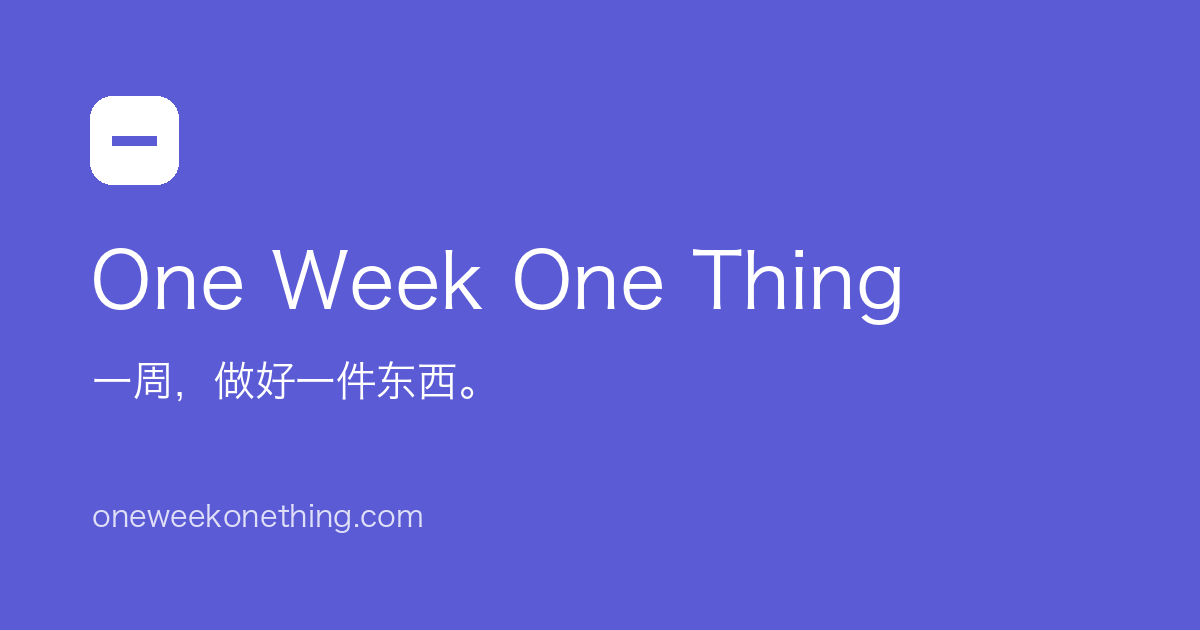
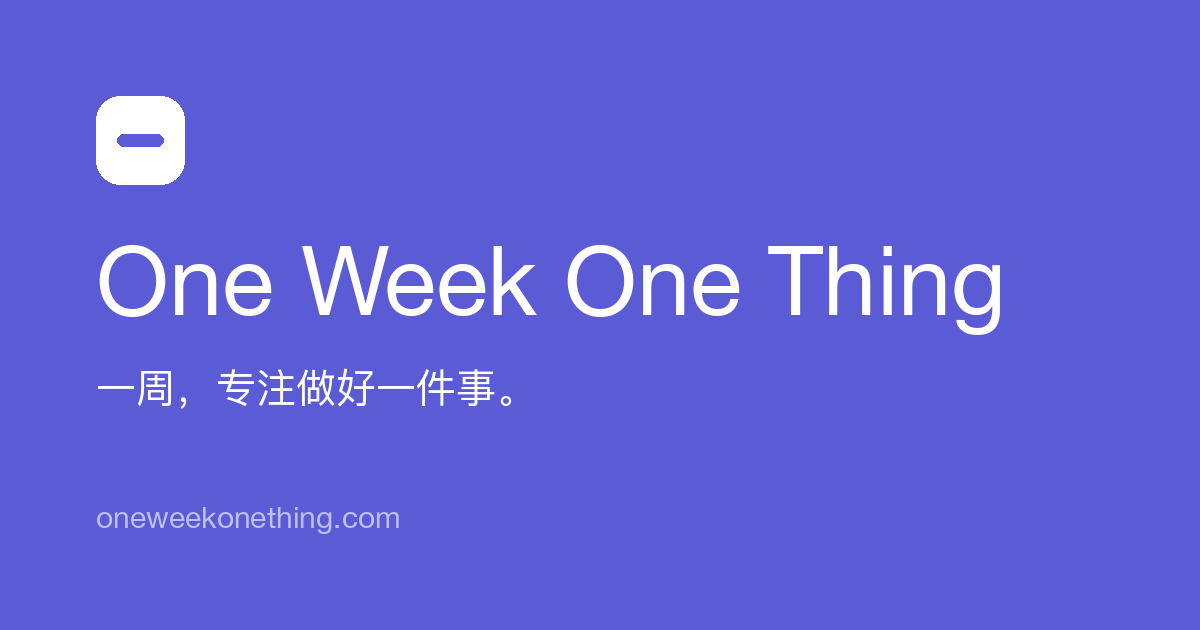
Refine One Week One Thing brand page

diff --git a/index.html b/index.html
@@ -4,8 +4,8 @@
   <meta charset="UTF-8" />
   <meta name="viewport" content="width=device-width, initial-scale=1.0" />
 
-  <title>One Week One Thing 一周一物｜每周做一件小而完整的东西</title>
-  <meta name="description" content="One Week One Thing（一周一物）是一个每周发布一件小而完整作品的个人创作实践。现有作品：网页盲打练习应用「键盘旋律 Key Melody」与 AI 原生开发技术笔记。公开构建，每周更新。" />
+  <title>One Week One Thing 一周一事｜短周期专注，及时反馈与调整</title>
+  <meta name="description" content="One Week One Thing（一周一事）是一种短周期的专注实践：「一周」代表短周期，「一事」代表一个目标或目标中的一个方面；在行动中及时获取反馈、调整方向。" />
   <link rel="canonical" href="https://oneweekonething.com/" />
   <meta name="robots" content="index, follow, max-image-preview:large" />
 
@@ -17,18 +17,18 @@
   <link rel="llms" type="text/markdown" href="/llms.txt" />
 
   <meta property="og:type" content="website" />
-  <meta property="og:site_name" content="One Week One Thing 一周一物" />
-  <meta property="og:title" content="One Week One Thing 一周一物｜每周做一件小而完整的东西" />
-  <meta property="og:description" content="每周发布一件小而完整作品的个人创作实践：网页应用「键盘旋律 Key Melody」、AI 原生开发技术笔记，以及更多每周更新的小东西。" />
+  <meta property="og:site_name" content="One Week One Thing 一周一事" />
+  <meta property="og:title" content="One Week One Thing 一周一事｜短周期专注，及时反馈与调整" />
+  <meta property="og:description" content="「一周」代表短周期，「一事」代表一个目标或目标中的一个方面；在行动中及时获取反馈、调整方向。作品与笔记记录每轮实践的成果。" />
   <meta property="og:url" content="https://oneweekonething.com/" />
   <meta property="og:image" content="https://oneweekonething.com/og-image.png" />
   <meta property="og:image:width" content="1200" />
   <meta property="og:image:height" content="630" />
-  <meta property="og:image:alt" content="One Week One Thing 一周一物 · 每周做一件小而完整的东西" />
+  <meta property="og:image:alt" content="One Week One Thing 一周一事 · 用一周，专注做好一件事" />
   <meta property="og:locale" content="zh_CN" />
   <meta name="twitter:card" content="summary_large_image" />
-  <meta name="twitter:title" content="One Week One Thing 一周一物｜每周做一件小而完整的东西" />
-  <meta name="twitter:description" content="每周发布一件小而完整作品的个人创作实践：键盘旋律 Key Melody、AI 原生开发技术笔记。" />
+  <meta name="twitter:title" content="One Week One Thing 一周一事｜短周期专注，及时反馈与调整" />
+  <meta name="twitter:description" content="「一周」代表短周期，「一事」代表一个目标或目标中的一个方面；在行动中及时获取反馈、调整方向。作品与笔记记录每轮实践的成果。" />
   <meta name="twitter:image" content="https://oneweekonething.com/og-image.png" />
 
   <script type="application/ld+json">
@@ -39,17 +39,17 @@
         "@type": "WebSite",
         "@id": "https://oneweekonething.com/#website",
         "url": "https://oneweekonething.com/",
-        "name": "One Week One Thing 一周一物",
-        "alternateName": "一周一物",
+        "name": "One Week One Thing 一周一事",
+        "alternateName": "一周一事",
         "inLanguage": "zh-CN",
-        "description": "每周发布一件小而完整作品的个人创作实践。",
+        "description": "「一周」代表短周期，「一事」代表一个目标或目标中的一个方面；在行动中及时获取反馈、调整方向。",
         "publisher": { "@id": "https://oneweekonething.com/#org" }
       },
       {
         "@type": "Organization",
         "@id": "https://oneweekonething.com/#org",
         "name": "One Week One Thing",
-        "alternateName": "一周一物",
+        "alternateName": "一周一事",
         "url": "https://oneweekonething.com/",
         "email": "oneweekonething@gmail.com",
         "logo": "https://oneweekonething.com/favicon.svg",
@@ -75,7 +75,7 @@
         "@type": "WebSite",
         "@id": "https://oneweekonething.com/#notes",
         "name": "One Week One Thing Notes",
-        "alternateName": "一周一物技术笔记",
+        "alternateName": "一周一事技术笔记",
         "url": "https://notes.oneweekonething.com/",
         "inLanguage": "zh-CN",
         "description": "AI 辅助开发与技术学习手册：AI 原生 SDLC、AGENTS.md 渐进式披露教程、FrontierAgent 源码学习等中文长文笔记，持续更新。",
@@ -87,10 +87,26 @@
         "mainEntity": [
           {
             "@type": "Question",
-            "name": "One Week One Thing（一周一物）是什么？",
+            "name": "One Week One Thing（一周一事）是什么？",
             "acceptedAnswer": {
               "@type": "Answer",
-              "text": "一个持续进行的个人创作实践：每周设计并发布一件小而完整的东西，并通过 oneweekonething.com 公开。内容以中文为主，覆盖网页应用与技术学习笔记两个方向。"
+              "text": "一种短周期的专注实践：每轮聚焦一个具体目标或其中一个方面，在行动中及时获取反馈、调整方向，并将作品与笔记公开积累。"
+            }
+          },
+          {
+            "@type": "Question",
+            "name": "「一周」和「一事」分别是什么意思？",
+            "acceptedAnswer": {
+              "@type": "Answer",
+              "text": "「一周」代表一段较短、便于行动和回看的时间；「一事」代表这一轮只聚焦一个明确目标，或一个更大目标中的具体方面。"
+            }
+          },
+          {
+            "@type": "Question",
+            "name": "每周都要完成并发布一个作品吗？",
+            "acceptedAnswer": {
+              "@type": "Answer",
+              "text": "一周一事强调短周期的专注、反馈和调整，不设每周完成或发布作品的固定承诺。每轮根据实际进展决定继续、调整或收束，并把有价值的成果沉淀下来。"
             }
           },
           {
@@ -98,7 +114,7 @@
             "name": "目前有哪些作品？",
             "acceptedAnswer": {
               "@type": "Answer",
-              "text": "两类：一是键盘旋律 Key Melody（key.oneweekonething.com），网页版盲打练习应用；二是 AI 技术笔记（notes.oneweekonething.com），收录 AI 原生 SDLC、AGENTS.md 教程、FrontierAgent 源码学习手册等。新作品每周更新。"
+              "text": "两类：一是键盘旋律 Key Melody（key.oneweekonething.com），网页版盲打练习应用；二是 AI 技术笔记（notes.oneweekonething.com），收录 AI 原生 SDLC、AGENTS.md 教程、FrontierAgent 源码学习手册等。"
             }
           },
           {
@@ -424,7 +440,7 @@
     /* 理念 */
     .principles {
       display: grid;
-      grid-template-columns: repeat(3, 1fr);
+      grid-template-columns: repeat(4, 1fr);
       gap: 32px;
       margin: 0;
     }
@@ -539,7 +555,7 @@
 
   <header class="site-header">
     <div class="container">
-      <a class="wordmark" href="/" aria-label="One Week One Thing 一周一物 首页">
+      <a class="wordmark" href="/" aria-label="One Week One Thing 一周一事 首页">
         <svg class="mark" width="24" height="24" viewBox="0 0 24 24" aria-hidden="true">
           <rect width="24" height="24" rx="6" fill="#5b5bd6" />
           <path d="M6 12h12" stroke="#ffffff" stroke-width="2.6" stroke-linecap="round" />
@@ -557,19 +573,18 @@
   <main id="main">
     <section class="hero">
       <div class="container">
-        <p class="kicker">One Week · One Thing</p>
-        <h1>一周，做好一件东西。</h1>
+        <p class="kicker">一周一事 · 个人实践记录</p>
+        <h1>一周一事，及时调整。</h1>
         <p class="lede">
-          One Week One Thing（一周一物）是一个持续进行的个人创作实践：
-          每周专注设计并发布一件小而完整的东西——一个网页应用、一份技术手册，或任何值得存在的小工具。
-          所有作品都公开在 oneweekonething.com 的子域名上，直接打开即用。
+          我把想做的事放进短周期：每轮只聚焦一个明确目标，尽早行动，根据反馈调整方向。
+          这里记录我的实践、作品与笔记。
         </p>
         <div class="actions">
-          <a class="btn btn-primary" href="https://key.oneweekonething.com/">
-            键盘旋律 · 开始练盲打<span class="arrow" aria-hidden="true"> →</span>
+          <a class="btn btn-primary" href="#philosophy">
+            看实践方法<span class="arrow" aria-hidden="true"> →</span>
           </a>
-          <a class="btn btn-secondary" href="https://notes.oneweekonething.com/">
-            阅读技术笔记<span class="arrow" aria-hidden="true"> ↗</span>
+          <a class="btn btn-secondary" href="#products">
+            查看实践成果<span class="arrow" aria-hidden="true"> ↓</span>
           </a>
         </div>
       </div>
@@ -577,8 +592,8 @@
 
     <section class="section" id="products" aria-labelledby="products-title">
       <div class="container">
-        <h2 id="products-title">已经做出的东西</h2>
-        <p class="section-intro">每一件都是独立可用的完整产品，托管在独立子域名上。</p>
+        <h2 id="products-title">已经做成的事</h2>
+        <p class="section-intro">把每轮专注的实践，沉淀为可以使用或继续积累的成果。</p>
 
         <ul class="product-list">
           <li class="product-row">
@@ -604,9 +619,9 @@
           </li>
 
           <li class="product-row upcoming">
-            <h3 class="product-name">下一件东西</h3>
-            <p class="product-desc">每周更新中，发布后会出现在这里。</p>
-            <span class="product-link" aria-hidden="true">即将发布</span>
+            <h3 class="product-name">交流与反馈</h3>
+            <p class="product-desc">欢迎交流实践、作品与想法。</p>
+            <a class="product-link" href="mailto:oneweekonething@gmail.com">写邮件<span class="arrow" aria-hidden="true"> →</span></a>
           </li>
         </ul>
       </div>
@@ -614,21 +629,25 @@
 
     <section class="section" id="philosophy" aria-labelledby="philosophy-title">
       <div class="container">
-        <h2 id="philosophy-title">一周一物的做法</h2>
-        <p class="section-intro">三条约束，让「想做」变成「做完了」。</p>
+        <h2 id="philosophy-title">短周期里的四步实践</h2>
+        <p class="section-intro">每轮以一周左右为节奏，专注一个目标；不等到周期结束才看反馈，而是在行动中及时校准。</p>
 
         <div class="principles">
           <div class="principle">
-            <h3><span class="index" aria-hidden="true">01</span>小而完整</h3>
-            <p>宁可做一件七天能收尾的小东西，也不开一个永远做不完的大坑。每一件都以「可用、可访问、可交付」为完成标准。</p>
+            <h3><span class="index" aria-hidden="true">01</span>聚焦一个目标</h3>
+            <p>说清这一轮要推进什么，或大目标中要解决哪一小部分。</p>
           </div>
           <div class="principle">
-            <h3><span class="index" aria-hidden="true">02</span>以周为节奏</h3>
-            <p>一周是足够想清楚、也足够做出来的周期。用固定的发布节奏约束范围，让交付成为习惯，而不是灵感。</p>
+            <h3><span class="index" aria-hidden="true">02</span>尽早行动</h3>
+            <p>先做能带来进展或帮助验证想法的一小步。</p>
           </div>
           <div class="principle">
-            <h3><span class="index" aria-hidden="true">03</span>公开构建</h3>
-            <p>作品发布在公开子域名上，方法与踩坑沉淀为技术笔记。做东西的过程本身，也是一件可以分享的东西。</p>
+            <h3><span class="index" aria-hidden="true">03</span>及时看反馈</h3>
+            <p>留意结果、使用体验或他人意见，尽早发现偏差。</p>
+          </div>
+          <div class="principle">
+            <h3><span class="index" aria-hidden="true">04</span>校准下一步</h3>
+            <p>根据反馈调整目标、范围或做法，再继续、改变方向或收束。</p>
           </div>
         </div>
       </div>
@@ -637,16 +656,24 @@
     <section class="section" id="faq" aria-labelledby="faq-title">
       <div class="container">
         <h2 id="faq-title">常见问题</h2>
-        <p class="section-intro">关于 One Week One Thing 的简短问答。</p>
+        <p class="section-intro">关于周期、专注与实践方式的简短问答。</p>
 
         <div class="faq-list">
           <details>
-            <summary>One Week One Thing（一周一物）是什么？</summary>
-            <p class="answer">一个持续进行的个人创作实践：每周设计并发布一件小而完整的东西，并通过 oneweekonething.com 公开。内容以中文为主，覆盖网页应用与技术学习笔记两个方向。</p>
+            <summary>One Week One Thing（一周一事）是什么？</summary>
+            <p class="answer">一种短周期的专注实践：每轮聚焦一个具体目标或其中一个方面，在行动中及时获取反馈、调整方向，并将作品与笔记公开积累。</p>
+          </details>
+          <details>
+            <summary>「一周」和「一事」分别是什么意思？</summary>
+            <p class="answer">「一周」代表一段较短、便于行动和回看的时间；「一事」代表这一轮只聚焦一个明确目标，或一个更大目标中的具体方面。</p>
+          </details>
+          <details>
+            <summary>每周都要完成并发布一个作品吗？</summary>
+            <p class="answer">一周一事强调短周期的专注、反馈和调整，不设每周完成或发布作品的固定承诺。每轮根据实际进展决定继续、调整或收束，并把有价值的成果沉淀下来。</p>
           </details>
           <details>
             <summary>目前有哪些作品？</summary>
-            <p class="answer">两类：一是键盘旋律 Key Melody（key.oneweekonething.com），网页版盲打练习应用；二是 AI 技术笔记（notes.oneweekonething.com），收录 AI 原生 SDLC、AGENTS.md 教程、FrontierAgent 源码学习手册等。新作品每周更新。</p>
+            <p class="answer">两类：一是键盘旋律 Key Melody（key.oneweekonething.com），网页版盲打练习应用；二是 AI 技术笔记（notes.oneweekonething.com），收录 AI 原生 SDLC、AGENTS.md 教程、FrontierAgent 源码学习手册等。</p>
           </details>
           <details>
             <summary>键盘旋律 Key Melody 是什么？</summary>
@@ -663,11 +690,11 @@
 
   <footer class="site-footer">
     <div class="container">
-      <p class="footer-tagline">用一周，做一件东西。</p>
-      <nav class="footer-links" aria-label="作品链接">
+      <p class="footer-tagline">聚焦一个目标，及时调整下一步。</p>
+      <nav class="footer-links" aria-label="作品与联系">
         <a href="https://key.oneweekonething.com/">键盘旋律 Key Melody</a>
         <a href="https://notes.oneweekonething.com/">技术笔记 Notes</a>
-        <a href="mailto:oneweekonething@gmail.com">oneweekonething@gmail.com</a>
+        <a href="mailto:oneweekonething@gmail.com">交流实践与反馈</a>
       </nav>
       <p class="copyright">© 2026 One Week One Thing · oneweekonething.com</p>
     </div>
